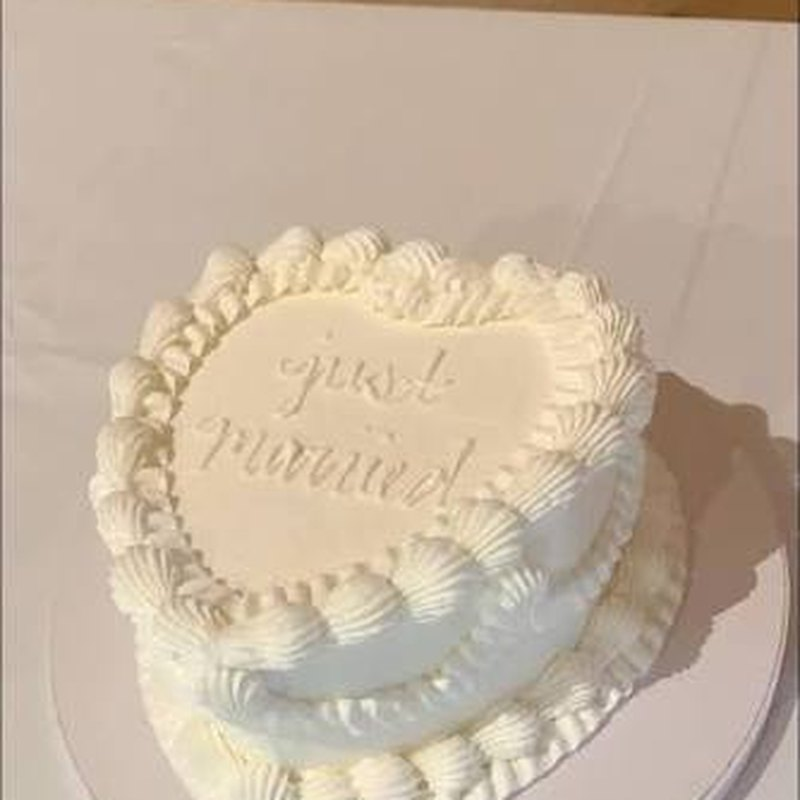
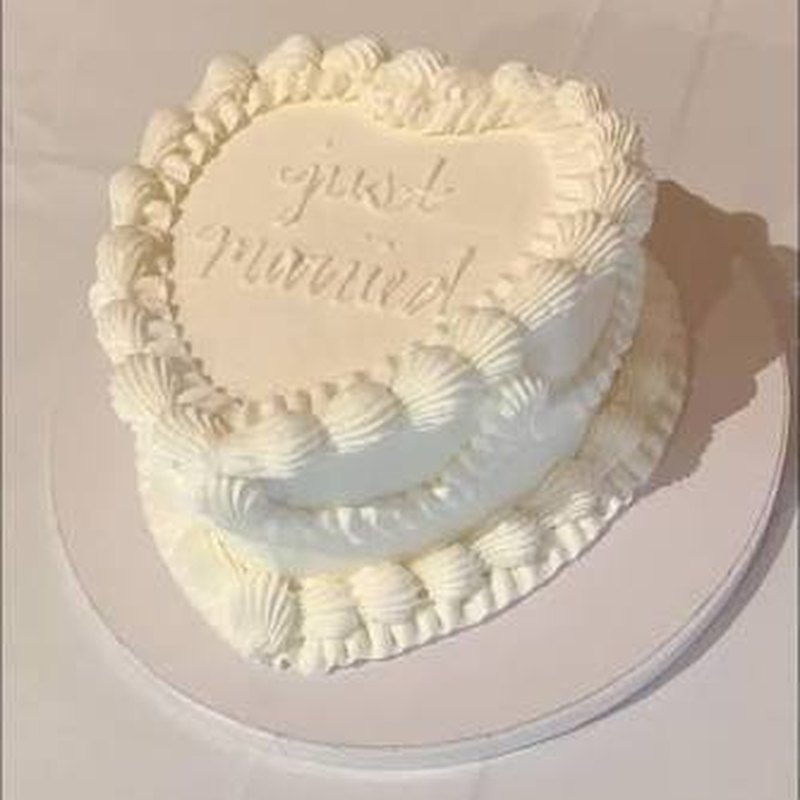
Services extras: cream band with white cards; re-center cake photo
Claude-Session: https://claude.ai/code/session_01V5YoTxvAc4ADGeQCcuvTpQ

diff --git a/styles.css b/styles.css
@@ -645,3 +645,7 @@ h1,h2,h3,h4{
   .extra-wide .xprice{margin-top:10px}
   .extra-wide h3{font-size:1.5rem}
 }
+
+/* Services page: extras sit between two white sections, so give the band a cream ground and white cards */
+.extras.on-cream{background:linear-gradient(180deg,var(--cream),var(--cream-2));padding-top:64px}
+.extras.on-cream .extra{background:#fff}

diff --git a/services.html b/services.html
@@ -281,7 +281,7 @@
 </section>
 
 <!-- ===== Little Extras (ceremony add-ons) ===== -->
-<section class="section extras" id="extras" style="padding-top:12px">
+<section class="section extras on-cream" id="extras">
   <div class="wrap center">
     <p class="eyebrow">Little Extras</p>
     <h2>Make It a Whole Celebration.</h2>
